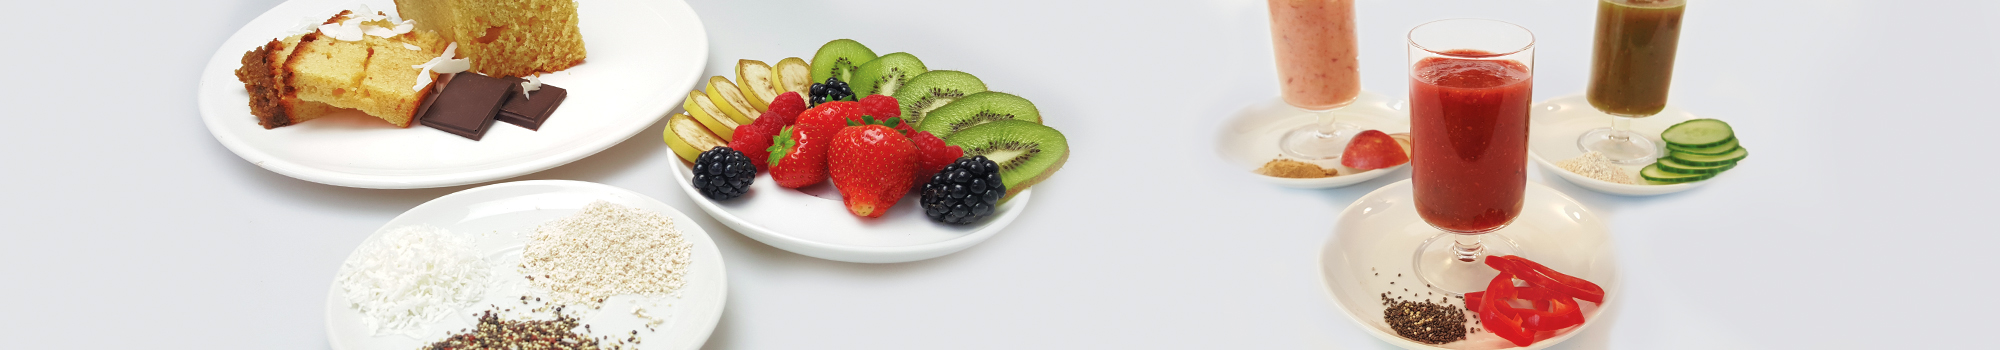
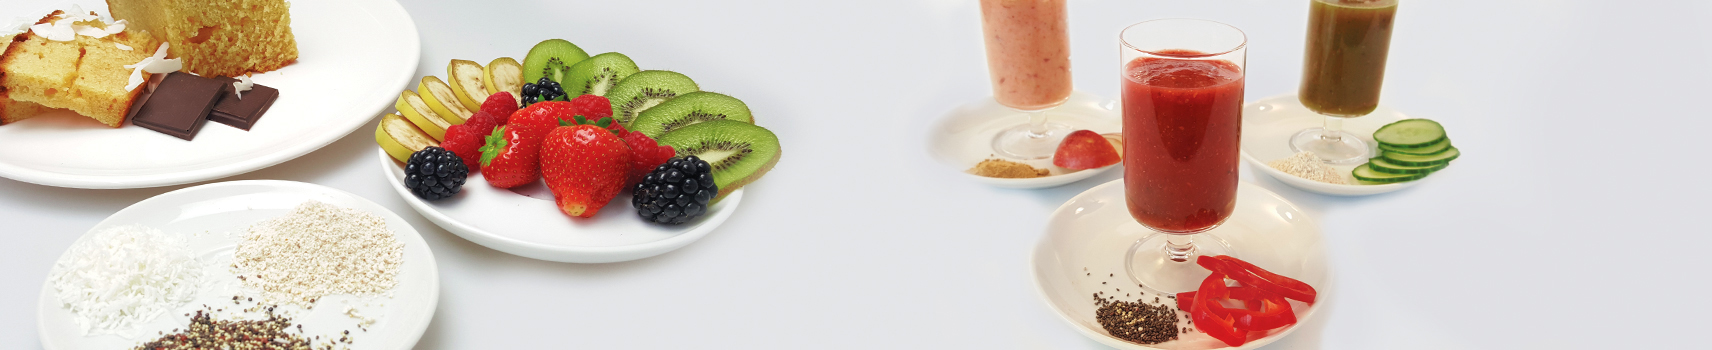
Final changes

diff --git a/src/client/views/home.html b/src/client/views/home.html
@@ -14,17 +14,19 @@
    
     <div class="carousel-inner">
         <div class="item active">
-            <div class="fill" style="background-image:url('src/client/images/banner01.jpg');">
+            <div class="fill" style="background-image:url('src/client/images/foodbanner.png');">
                 <h1 class="lib" style="font-size: 36pt; margin: 0; padding-top: 150px; color: white; text-transform: uppercase; letter-spacing: 8px;">Spreading Nordic Values</h1>
 
                 <p class="openSans" style="color: white; font-size: 25pt;">&#8734;</p>
 
                 <h4 class="openSans" style="font-size: 16pt; color: white; text-align: center; width: 45%; margin-left: auto; margin-right: auto; text-transform: italic;">Expleris represents and commercializes high quality goods from and across international markets.</h4>
+                <a ng-href="#categories" class="lib" style="color: #d9a792;"><h5 style="font-size: 14pt;">View Portfolio</h5></a>
             </div>
         </div>
         <div class="item">
-            <div class="fill" style="background-image:url('src/client/images/banner1.jpg');">
-                 <a href="#services">
+
+            <div class="fill" style="background-image:url('src/client/images/nonfoodbanner.png');">
+            <!--     <a href="#services">
                     <div style="background: rgba(0, 0, 0, 0.7); width: 500px; height: 60px; position: absolute; left: 0px; top: 100px;">
                         <h1 style="color: white; text-align:right; margin-right: 10px; font-size: 40pt; text-transform: uppercase; margin-top: 0; margin-bottom: 0;">A Guided Venture</h1>
                     </div>
@@ -37,12 +39,17 @@
                     <div style="background: white; width: 125px; height: 30px; position: absolute; left: 20px; top: 290px;">
                         <h1 style="color: #262626; text-align:left; margin-left: 5px; font-size: 20pt; text-transform: uppercase; margin-top: 0; margin-bottom: 0;"><em>lifestyle</em></h1>
                     </div>
-                </a>
+                </a>   -->
+                <div style="position: absolute; top: 300px; left: 0px; width: 100%; height: 50px; background-color: rgba(0, 0, 0, 0.75);">
+                    <h1 style="text-align: center; line-height: 50px; color: white; margin: 0; font-family: 'Open Sans';">Quality You Can Trust</h1>
+                </div>
             </div>
         </div>
         <div class="item">
-            <div class="fill" style="background-image:url('src/client/images/banner2.jpg');">
-               <h1 style="margin: 0px;">Quality You Can Trust</h1>Safe and High Quality Products
+            <div class="fill" style="background-image:url('src/client/images/venturebanner.png');">
+                <div style="position: absolute; top: 300px; left: 0px; width: 100%; height: 50px; background-color: rgba(0, 0, 0, 0.75);">
+                    <h1 style="text-align: center; line-height: 50px; color: white; margin: 0; font-family: 'Open Sans';">A safe and guided landing with Expleris</h1>
+                </div>
             </div>
         </div>
     </div>

diff --git a/src/client/views/contactUs.html b/src/client/views/contactUs.html
@@ -14,14 +14,14 @@
 
                 <div class="col-md-2"></div>
                 <div class="col-md-4">
-                    <h3>Get in touch!</h3>
-                    <h4 style="margin: 0;">Choose on the right the appropriate e-mail </br>depending on your inquery.</h4>
+                    <h3 style="color: #1c1c1c;">Get in touch!</h3>
+                    <h4 style="margin: 0; color: #1c1c1c;">Choose on the right the appropriate e-mail </br>depending on your inquery.</h4>
 
                 </div>
                 <div class="col-md-2"></div>
                 <div class="col-md-4">
-                    <h3>expleris@gmail.com</h3>
-                    <h3>sales@gmail.com</h3>
+                    <h3 style="color: #1c1c1c;">sales@expleris.com</h3>
+                    <h3 style="color: #1c1c1c;">info@expleris.com</h3>
                 </div>
 
             </div>
@@ -65,19 +65,21 @@
 
                 <div class="col-md-2"></div>
                     <div class="col-md-4">
-                        <h3>Office in China</h3>
-                        <h4>Flat 12, 23/F</br>Wah Fat Industrial Building No 10-14, </br> Kung Yip Street Kwai Chung, NT, Hongkong.</h4>
-                    </div>
+                        <h3>Office in Denmark</h3>
+                        <h4>Møllevangs Alle 142</br>8000 Aarhus</h4>
+                    </div>   
                     <div class="col-md-2"></div>
                     <div class="col-md-4">
-                        <h3>Office in Denmark</h3>
+                        <h3>Office in Hong Kong</h3>
                         <h4>Flat 12, 23/F</br>Wah Fat Industrial Building No 10-14, </br> Kung Yip Street Kwai Chung, NT, Hongkong.</h4>
-                    </div>   
+                    </div>
+                    
+                    
               
             </div>
 
         </div>      
-
+        <!--
         <div class="col-md-12 map1">
 
             <div class="overlay" onClick="style.pointerEvents='none'"></div>
@@ -108,6 +110,7 @@
             <div id="chinaMap"></div>
       
         </div> 
+        -->
 <!--
     <div class="col-md-12 contactForm">
         <form>

diff --git a/src/client/views/nav.html b/src/client/views/nav.html
@@ -16,19 +16,19 @@
 				
 				<div class="collapse navbar-collapse navHeaderCollapse">
 					<ul class="nav navbar-nav navbar-right">
-						<li ng-class="{active: isActive('/aboutUs')}"><a href="#aboutUs" class="borderSlide">Who We Are</a></li>
-						<li ng-class="{active: isActive('/whyUs')}"><a href="#whyUs" class="borderSlide">Why Us</a></li>						
 						<li ng-class="{ active: isActive('/categories')}" class="dropdown">
 							<a href="#categories" class="dropdown-toggle borderSlide">Portfolio</a>
 							<ul class="dropdown-menu">
 								<li class="borderSlide">
-									<a href="#brands">Food & Beverages</a>
+									<a href="#brands">Foods & Beverages</a>
 								</li>
 								<li class="borderSlide">
-									<a href="#nonfood">Non-Food</a>
+									<a href="#nonfood">Non-Food Products</a>
 								</li>			
 							</ul>
 						</li>
+						<li ng-class="{active: isActive('/aboutUs')}"><a href="#aboutUs" class="borderSlide">Who We Are</a></li>
+						<li ng-class="{active: isActive('/whyUs')}"><a href="#whyUs" class="borderSlide">Services</a></li>						
 						<li ng-class="{active: isActive('/news')}"><a href="#news" class="borderSlide">News & Events</a></li>
 						<li ng-class="{active: isActive('/contactUs')}"><a href="#contactUs" class="borderSlide">Contact</a></li> 	
 					</ul>

diff --git a/src/client/css/style.css b/src/client/css/style.css
@@ -1,4 +1,4 @@
-.fill h1, .fill h4, .fill p, .homeBox h3, .categoryIntroContent, .serviceContainer {
+.container, .categoryIntroContent, .contactInfo {
 
 
     -webkit-animation: fadein 2s; /* Safari, Chrome and Opera > 12.1 */
@@ -1012,7 +1012,7 @@ filter: progid:DXImageTransform.Microsoft.gradient( startColorstr='#00898989', e
 
   .eventInfo:hover {
     color: white;
-    background-color: #ffa100;
+    background-color: #8C92BF;
   }
 
   .eventInfo p {
@@ -1057,7 +1057,7 @@ filter: progid:DXImageTransform.Microsoft.gradient( startColorstr='#00898989', e
 
 .contactContainer {
   width: 100%;
-  height: 1400px;
+  height: 1000px;
 }
 
 #chinaMap {
@@ -1097,8 +1097,15 @@ filter: progid:DXImageTransform.Microsoft.gradient( startColorstr='#00898989', e
     margin-top: 80px;
   }
 
-  .contactInfo h3, h4 {
-    text-align: justify;
+  .contactInfo h3, .contactInfo h4 {
+    color: white;
+    text-align: left;
+    padding: 0;
+    margin: 0;
+  }
+
+  .contactInfo h3 {
+    margin-bottom: 10px;
   }
 
 .contactForm {

diff --git a/src/client/views/whyUs.html b/src/client/views/whyUs.html
@@ -1,6 +1,6 @@
 <div class="topic">
 
-    <img src="src/client/images/topBan.jpg" style="width: auto;" alt="services" />
+    <img src="src/client/images/topban.jpg" style="width: auto;" alt="services" />
     
 </div>
 
@@ -31,15 +31,15 @@
     </div>
 
 </div>
-
+<!--
   <div class="line" style="margin-bottom: 20px;"></div>
 
   <div class="servicesInfographic">
 
-      <img src="src/client/images/infograph.jpg" alt="infographic" />
+      
 
   </div>
-
+-->
 
   <div class="servicesImage">
 

diff --git a/src/server/server.js b/src/server/server.js
@@ -32,6 +32,6 @@ monCon.once('open', startServer);
 function startServer(){
 	var server = app.listen(4000, function () {
 		var port = server.address().port;
-		console.log('Listening hard on port ' + port);
+		console.log('Listening on port ' + port);
 	});
 };

diff --git a/src/client/views/aboutUs.html b/src/client/views/aboutUs.html
@@ -1,6 +1,6 @@
 <div class="topic">
 
-    <img src="src/client/images/swanCph.jpg" alt="swanCph.jpg" />
+    <img src="src/client/images/swanbanner.png" alt="swanbanner.png" />
 
 </div>
 
